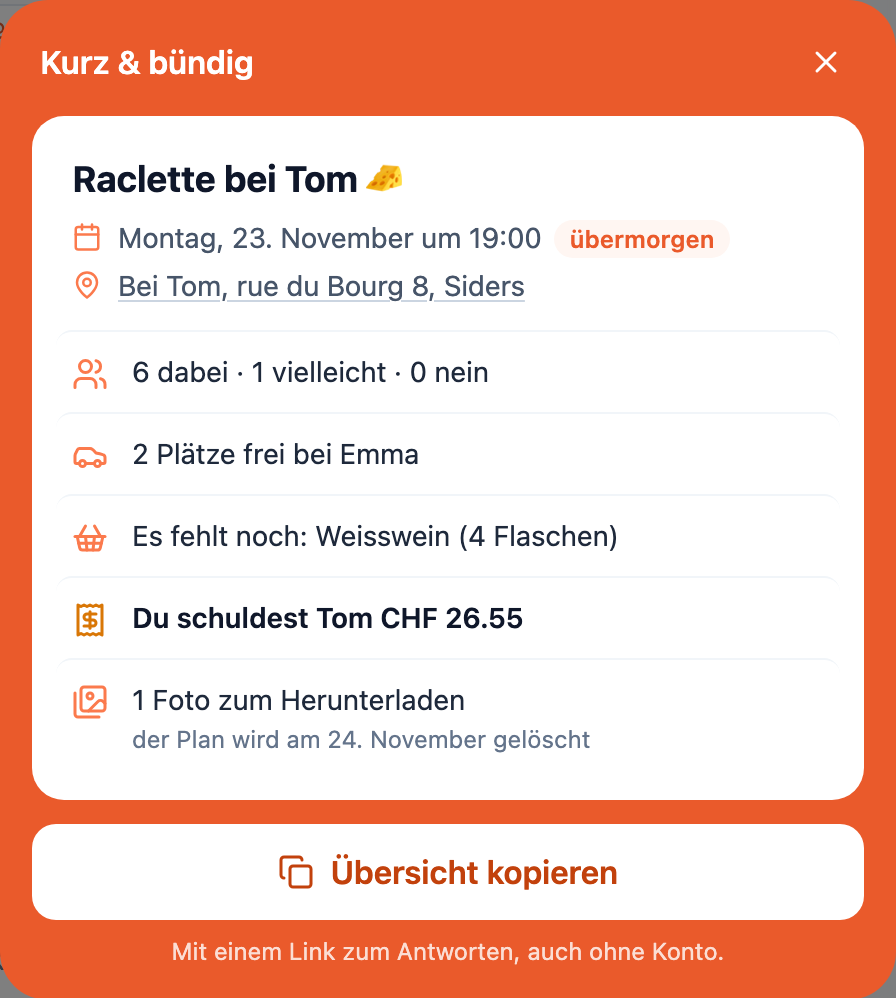
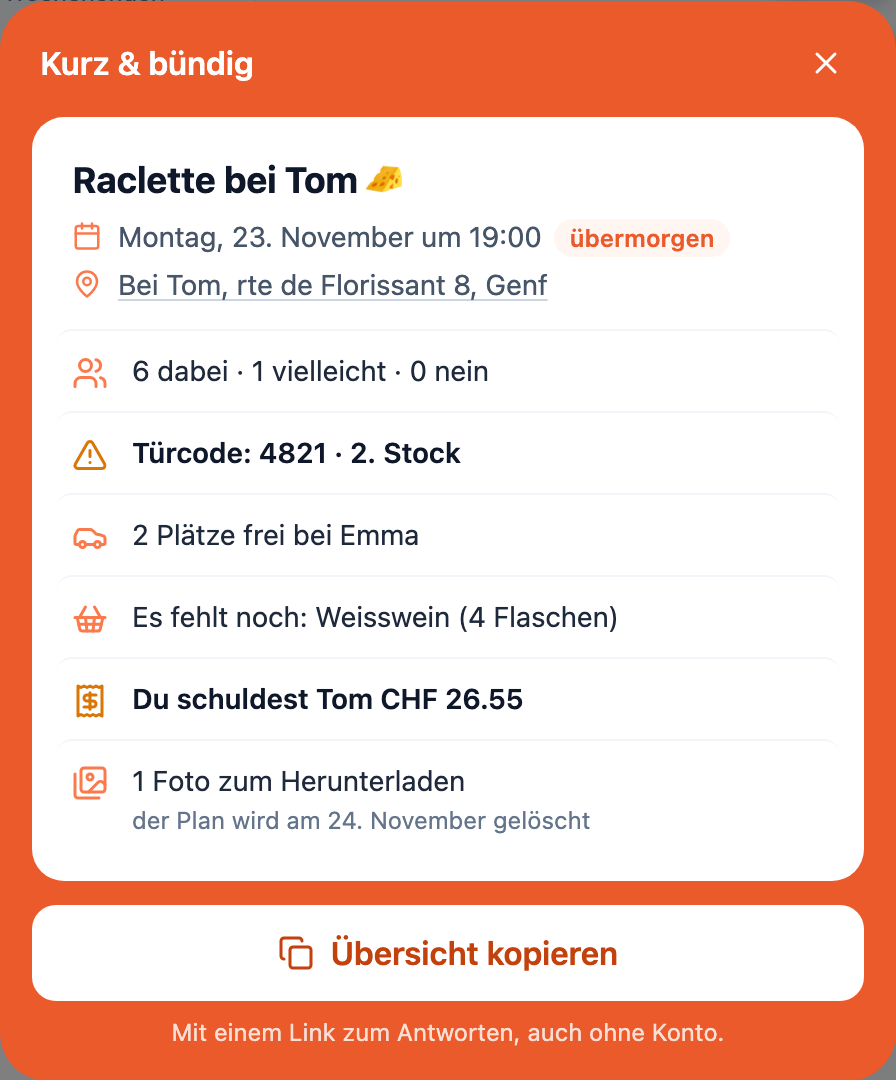
feat(site): écran du téléphone plein de messages, « En bref » avec code de la porte et adresse à Genève

Changed region(s): [[0.0312, 0.1553, 0.9688, 0.9629], [0.0312, 0.0311, 0.9688, 0.1242]]

diff --git a/client/src/components/landing/LandingFx.tsx b/client/src/components/landing/LandingFx.tsx
@@ -201,6 +201,40 @@ export function InteractivePhone() {
 // ------------------------------------------------------------------------------------------------ Histoire d'un samedi
 const STEPS = ['s1', 's2', 's3', 's4', 's5'] as const;
 
+const CHAT_NAMES = ['Emma', 'Noah', 'Tom', 'Léa', 'Julie', 'Hugo'];
+const CHAT_COLORS = ['text-pink-300', 'text-sky-300', 'text-amber-300', 'text-emerald-300', 'text-violet-300', 'text-orange-300'];
+
+/** Fil de discussion qui déborde : un message toutes les 0,35 s, le fil remonte, l'écran est plein */
+function ChatFlood() {
+  const [count, setCount] = useState(reducedMotion() ? 16 : 6);
+  useEffect(() => {
+    if (reducedMotion()) return;
+    const id = setInterval(() => setCount(c => c + 1), 350);
+    return () => clearInterval(id);
+  }, []);
+  const lines = Array.from({ length: count }, (_, i) => i);
+  return (
+    <div className="absolute inset-0 bg-[#111318] pt-7 overflow-hidden">
+      <div className="absolute inset-x-0 top-7 bottom-0 flex flex-col justify-end gap-1.5 px-3 pb-[68px]">
+        {lines.slice(-16).map(i => {
+          const who = i % CHAT_NAMES.length, mine = i % 5 === 3;
+          return (
+            <div key={i} className={`max-w-[82%] rounded-2xl px-3 py-1.5 animate-[landingIn_.3s_ease-out] ${mine ? 'self-end bg-[#2b3a55]' : 'self-start bg-[#262a33]'}`}>
+              {!mine && <p className={`text-[10px] font-bold ${CHAT_COLORS[who]}`}>{CHAT_NAMES[who]}</p>}
+              <p className="text-xs text-slate-100">{t(`landing.fx.chat${(i % 16) + 1}` as 'landing.fx.chat1')}</p>
+            </div>
+          );
+        })}
+      </div>
+      {/* Le haut s'assombrit : on sent que le fil continue au-dessus */}
+      <div className="absolute inset-x-0 top-6 h-16 bg-gradient-to-b from-[#111318] to-transparent pointer-events-none" />
+      <p className="absolute left-1/2 -translate-x-1/2 bottom-8 whitespace-nowrap rounded-full bg-red-600 text-white text-sm font-bold px-4 py-1.5 shadow-lg shadow-black/50">
+        <CountUp from={0} to={143} duration={1200} render={n => t('landing.compare.unread').replace(/\d+/, String(n))} />
+      </p>
+    </div>
+  );
+}
+
 function StoryScreen({ step }: { step: number }) {
   const card = (compact = false) => (
     <div className={`rounded-2xl bg-white shadow-md ${compact ? 'p-3' : 'p-4'}`}>
@@ -210,20 +244,8 @@ function StoryScreen({ step }: { step: number }) {
       <p className="mt-1.5 flex items-center gap-1 text-xs text-slate-500"><MapPin size={12} />{t('landing.mock.where')}</p>
     </div>
   );
-  if (step === 0) return (
-    <div key="s0" className="absolute inset-0 bg-[#111318] p-3 pt-8">
-      <div className="space-y-1.5">
-        {(['before1', 'before2', 'before3', 'before4', 'before2', 'before1'] as const).map((k, i) => (
-          <p key={i} className={`max-w-[78%] rounded-2xl bg-[#262a33] text-slate-100 px-3 py-1.5 text-xs animate-[landingIn_.35s_ease-out_both] ${i % 2 ? 'ml-auto' : ''}`} style={{ animationDelay: `${i * 180}ms` }}>
-            {t(`landing.compare.${k}`)}
-          </p>
-        ))}
-      </div>
-      <p className="absolute left-1/2 -translate-x-1/2 bottom-8 whitespace-nowrap rounded-full bg-red-600 text-white text-sm font-bold px-4 py-1.5 shadow-lg">
-        <CountUp from={0} to={143} duration={1200} render={n => t('landing.compare.unread').replace(/\d+/, String(n))} />
-      </p>
-    </div>
-  );
+  // Étape 1 : le groupe déborde — l'écran se remplit de messages qui continuent d'arriver (2026-11-21, demande de l'utilisateur)
+  if (step === 0) return <ChatFlood />;
   return (
     <div key={`s${step}`} className="absolute inset-0 bg-slate-100 p-3 pt-7 space-y-2 animate-[landingIn_.45s_ease-out]">
       {step === 1 && card()}

diff --git a/client/src/i18n/de/landing.ts b/client/src/i18n/de/landing.ts
@@ -115,6 +115,22 @@ const landing: Dict['landing'] = {
   },
   // Effets et navigation du site d'accueil (2026-11-21)
   fx: {
+      "chat1": "wo war das nochmal?",
+      "chat2": "wer kommt??",
+      "chat3": "sagen wir 19 oder 20 Uhr?",
+      "chat4": "ich kann nur Sonntag",
+      "chat5": "bringt jemand Chips?",
+      "chat6": "wartet, ich lese alles nach",
+      "chat7": "bei Julie, oder?",
+      "chat8": "ICH BIN DABEI 🙌",
+      "chat9": "ah nein, doch 19:30",
+      "chat10": "wer bringt den Wein?",
+      "chat11": "habt ihr meine Nachricht gesehen?",
+      "chat12": "ok aber WO??",
+      "chat13": "+1",
+      "chat14": "machen wir eine Umfrage?",
+      "chat15": "ich hab 40 Nachrichten verpasst 😅",
+      "chat16": "ich blick nicht mehr durch 😩",
       "briefKicker": "Kurz & bündig",
       "briefTitle": "Alles, was dich betrifft, auf einen Blick",
       "briefText": "Keinen Plan öffnen, keinen Chat nachlesen: «Kurz & bündig» zeigt dir das Wichtigste, nur für dich.",

diff --git a/client/src/i18n/en/landing.ts b/client/src/i18n/en/landing.ts
@@ -115,6 +115,22 @@ const landing: Dict['landing'] = {
   },
   // Effets et navigation du site d'accueil (2026-11-21)
   fx: {
+      "chat1": "where was it again?",
+      "chat2": "who’s coming??",
+      "chat3": "7 or 8 pm?",
+      "chat4": "I can only do Sunday",
+      "chat5": "is someone bringing crisps?",
+      "chat6": "wait, I’m reading it all back",
+      "chat7": "it’s at Julie’s, right?",
+      "chat8": "I’M IN 🙌",
+      "chat9": "oh no, 7:30 after all",
+      "chat10": "who’s bringing the wine?",
+      "chat11": "did you see my message?",
+      "chat12": "ok but WHERE??",
+      "chat13": "+1",
+      "chat14": "shall we do a poll?",
+      "chat15": "I missed 40 messages 😅",
+      "chat16": "I can’t keep up 😩",
       "briefKicker": "At a glance",
       "briefTitle": "Everything that concerns you, at a glance",
       "briefText": "No need to open the Plan or scroll back through the chat: “At a glance” gives you the essentials, just for you.",

diff --git a/client/src/i18n/fr/landing.ts b/client/src/i18n/fr/landing.ts
@@ -114,6 +114,22 @@ export default {
   },
   // Effets et navigation du site d'accueil (2026-11-21)
   fx: {
+      "chat1": "c’était où déjà ?",
+      "chat2": "qui vient ??",
+      "chat3": "on dit 19 h ou 20 h ?",
+      "chat4": "moi je peux que dimanche",
+      "chat5": "quelqu’un prend les chips ?",
+      "chat6": "attendez je relis tout",
+      "chat7": "c’est chez Julie non ?",
+      "chat8": "JE SUIS IN 🙌",
+      "chat9": "ah non finalement 19 h 30",
+      "chat10": "qui ramène le vin ?",
+      "chat11": "vous avez vu mon message ?",
+      "chat12": "ok mais c’est OÙ ??",
+      "chat13": "+1",
+      "chat14": "on fait un sondage ?",
+      "chat15": "j’ai raté 40 messages 😅",
+      "chat16": "je vois rien passer 😩",
       "briefKicker": "En bref",
       "briefTitle": "Tout ce qui te concerne, en un coup d’œil",
       "briefText": "Pas besoin d’ouvrir le Plan ni de relire le chat : « En bref » te dit l’essentiel, rien que pour toi.",

diff --git a/client/src/i18n/it/landing.ts b/client/src/i18n/it/landing.ts
@@ -115,6 +115,22 @@ const landing: Dict['landing'] = {
   },
   // Effets et navigation du site d'accueil (2026-11-21)
   fx: {
+      "chat1": "dov’era già?",
+      "chat2": "chi viene??",
+      "chat3": "diciamo alle 19 o alle 20?",
+      "chat4": "io posso solo domenica",
+      "chat5": "qualcuno porta le patatine?",
+      "chat6": "aspettate, rileggo tutto",
+      "chat7": "è da Julie, no?",
+      "chat8": "CI SONO 🙌",
+      "chat9": "ah no, alla fine 19:30",
+      "chat10": "chi porta il vino?",
+      "chat11": "avete visto il mio messaggio?",
+      "chat12": "ok ma DOVE??",
+      "chat13": "+1",
+      "chat14": "facciamo un sondaggio?",
+      "chat15": "mi sono perso 40 messaggi 😅",
+      "chat16": "non ci capisco più niente 😩",
       "briefKicker": "In breve",
       "briefTitle": "Tutto ciò che ti riguarda, a colpo d’occhio",
       "briefText": "Niente Plan da aprire né chat da rileggere: «In breve» ti dice l’essenziale, solo per te.",

diff --git a/client/src/pages/LandingPage.tsx b/client/src/pages/LandingPage.tsx
@@ -253,7 +253,7 @@ export function LandingPage() {
           </Reveal>
           <Reveal delay={150}>
             <Tilt className="max-w-[448px] mx-auto">
-              <img src={`/landing/en-bref-${currentLang()}.png`} alt={t('landing.fx.briefAlt')} width={448} height={499} loading="lazy"
+              <img src={`/landing/en-bref-${currentLang()}.png`} alt={t('landing.fx.briefAlt')} width={448} height={540} loading="lazy"
                 className="w-full h-auto rounded-[28px] shadow-2xl shadow-orange-900/25" />
             </Tilt>
           </Reveal>
